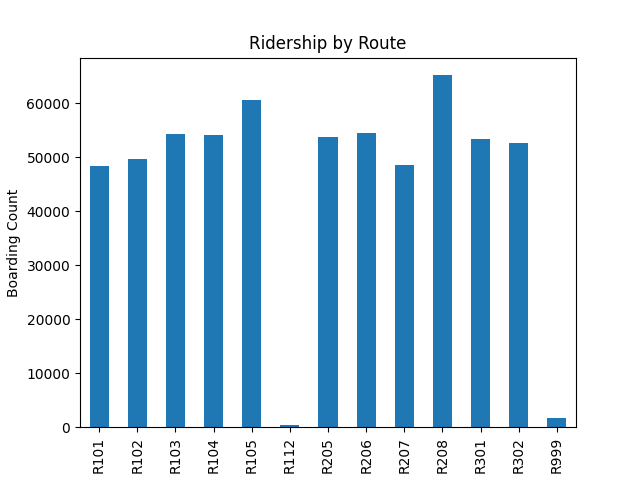
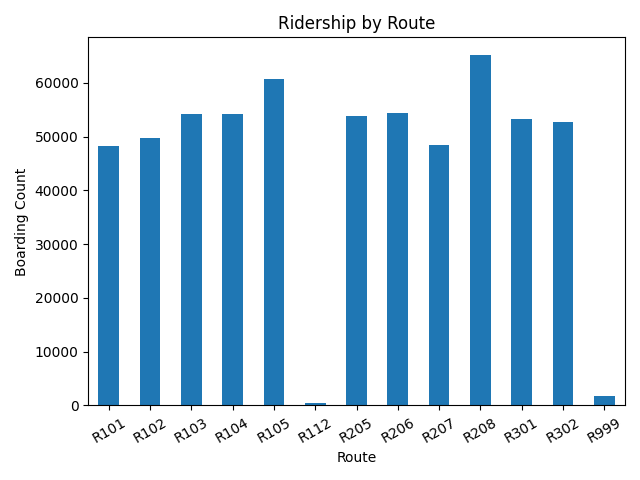
added charts to outputs folder

diff --git a/charts.py b/charts.py
@@ -12,6 +12,8 @@ monthly.plot()
 plt.title("Monthly Ridership")
 plt.xlabel("Month")
 plt.ylabel("Boarding Count")
+plt.xticks(rotation=30)
+plt.tight_layout()
 plt.savefig("outputs/monthly_ridership.png")
 plt.close()
 
@@ -22,6 +24,8 @@ route.plot(kind='bar')
 plt.title("Ridership by Route")
 plt.xlabel("Route")
 plt.ylabel("Boarding Count")
+plt.xticks(rotation=30)
+plt.tight_layout()
 plt.savefig("outputs/ridership_by_route.png")
 plt.close()
 
@@ -32,6 +36,8 @@ vehicle.plot(kind='bar')
 plt.title("Vehicle Utilization")
 plt.xlabel("Vehicle Type")
 plt.ylabel("Average Boarding")
+plt.xticks(rotation=30)
+plt.tight_layout()
 plt.savefig("outputs/vehicle_utilization.png")
 plt.close()
 
@@ -42,6 +48,8 @@ weather.plot(kind='bar')
 plt.title("Weather Impact")
 plt.xlabel("Weather")
 plt.ylabel("Average Boarding")
+plt.xticks(rotation=30)
+plt.tight_layout()
 plt.savefig("outputs/weather_impact.png")
 plt.close()
 
